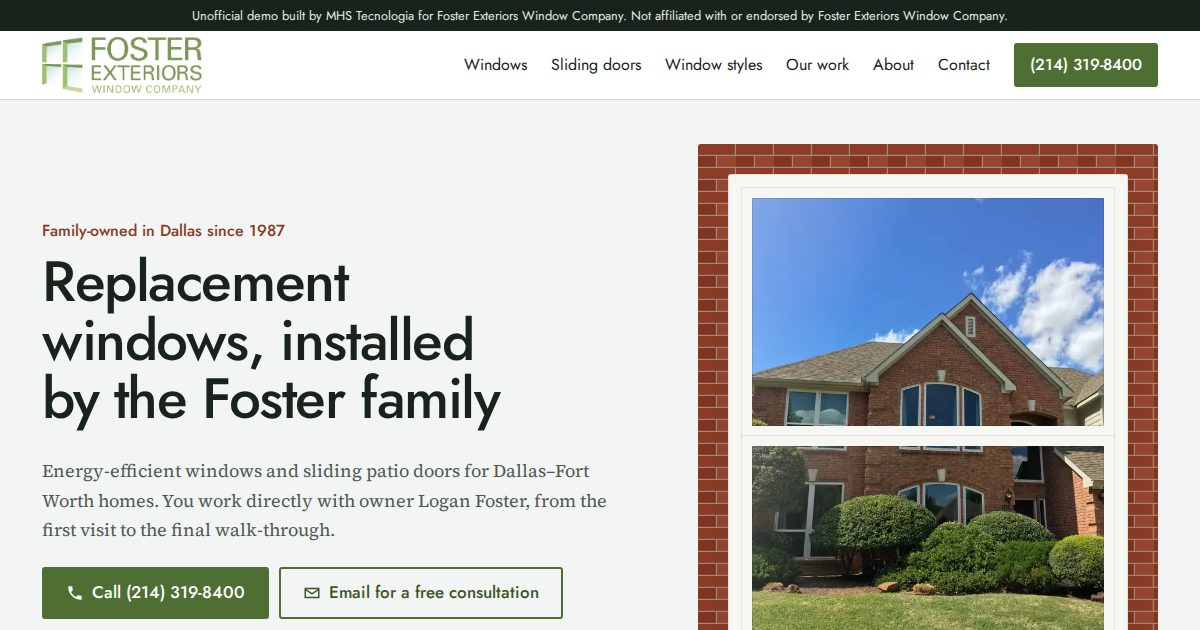
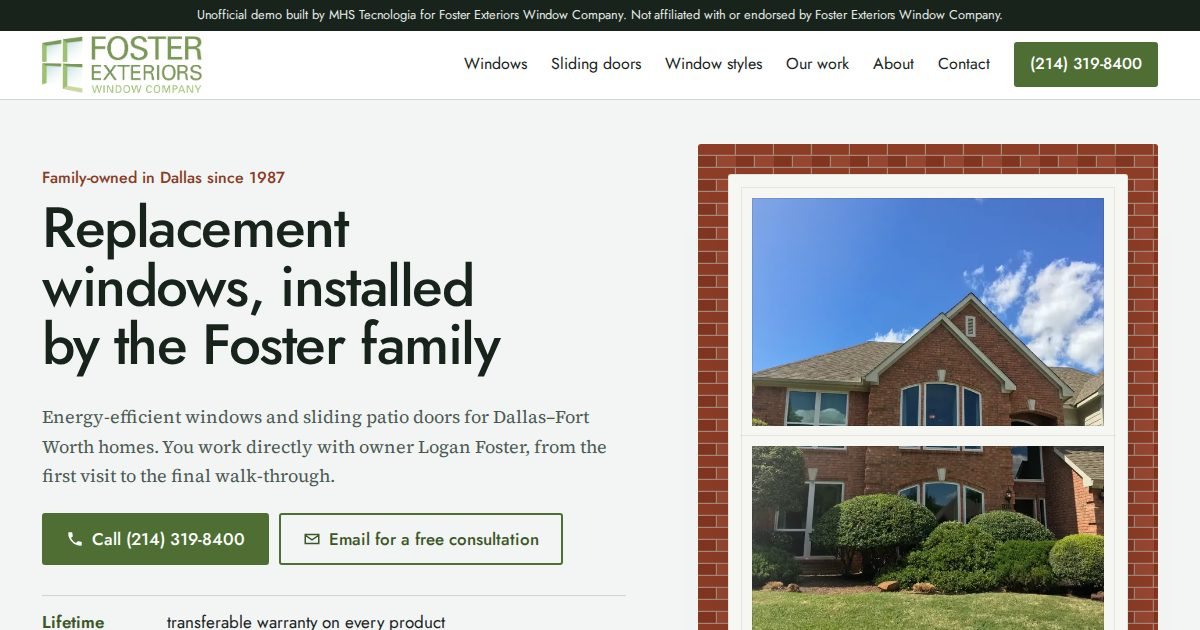
Previews: 88 ativos

diff --git a/foster-exteriors-dallas-tx/windows.html b/foster-exteriors-dallas-tx/windows.html
@@ -37,7 +37,7 @@ p{margin:0 0 1em;max-width:66ch}
 .skip:focus{left:8px;top:8px}
 
 /* demo notice */
-.demo{background:var(--ink);color:#E6ECE8;font:400 .74rem/1.35 var(--sans);text-align:center;padding:6px var(--gut)}
+.demo{background:var(--ink);color:#E6ECE8;font:400 .66rem/1.3 var(--sans);letter-spacing:-.005em;text-align:center;padding:4px 8px}
 @media (min-width:900px){.demo{font-size:.8rem;padding:7px var(--gut)}}
 
 /* header */
@@ -292,7 +292,7 @@ details.feat li{margin:3px 0;break-inside:avoid}
 
 <section class="phead"><div class="wrap">
   <h1>Replacement windows</h1>
-  <p>Vinyl replacement windows from NT, Burris and Alside. Every one meets or exceeds ENERGY STAR® criteria and is backed by a lifetime transferable warranty.</p>
+  <p>Vinyl replacement windows from NT, Burris and Alside that meet the ENERGY STAR® criteria, each backed by a lifetime transferable warranty. The aluminum NT Twinsulator is offered too.</p>
   <div class="btns">
   <a class="btn" href="tel:+12143198400"><svg viewBox="0 0 24 24" aria-hidden="true"><path fill="currentColor" d="M6.6 10.8a15.1 15.1 0 0 0 6.6 6.6l2.2-2.2c.3-.3.7-.4 1-.2 1.1.4 2.3.6 3.6.6.6 0 1 .4 1 1V20c0 .6-.4 1-1 1A17 17 0 0 1 3 4c0-.6.4-1 1-1h3.5c.6 0 1 .4 1 1 0 1.3.2 2.5.6 3.6.1.3 0 .7-.2 1z"/></svg>Call (214) 319-8400</a>
   <a class="btn ghost" href="mailto:info@fosterexteriors.com?subject=Question%20about%20replacement%20windows"><svg viewBox="0 0 24 24" aria-hidden="true"><path fill="none" stroke="currentColor" stroke-width="2" d="M3 6h18v12H3zM3 7l9 6 9-6"/></svg>Email a question</a>
@@ -322,7 +322,7 @@ details.feat li{margin:3px 0;break-inside:avoid}
   <dl class="spec"><div><dt>Styles</dt><dd>Single hung, double hung, double sliding, geometric, casement, slimline and picture frame</dd></div><div><dt>Frame colors</dt><dd><div class="swatches"><span><span class="chip" style="background:#F6F6F2"></span>White</span><span><span class="chip" style="background:#E8DEC8"></span>Almond</span><span><span class="chip" style="background:#C9B997"></span>Sandstone</span><span><span class="chip" style="background:#262A2E"></span>Midnight</span></div><br><span style="color:var(--muted);font-size:.95rem">15 custom color options, including color match submissions</span></dd></div><div><dt>Glass</dt><dd>Double pane, double strength Cardinal 366 or 452+ Low-E glass with argon gas, in a 3/4 inch insulated glass unit</dd></div><div><dt>Grids</dt><dd>Colonial, prairie or craftsman, internal or external</dd></div></dl>
 </article><article class="line" id="nt-twinsulator">
   <div><p class="maker">NT</p><h2>NT Twinsulator Series</h2><p class="desc">Extreme strength, durability and state of the art thermal performance. Designed for use in any weather condition, and engineered for a lifetime of worry-free operation, for any type of home or light commercial project.</p></div>
-  <dl class="spec"><div><dt>Styles</dt><dd>Double hung, single hung, slider, picture and casement</dd></div></dl>
+  <dl class="spec"><div><dt>Styles</dt><dd>Double hung, single hung, slider, picture and casement</dd></div><div><dt>Best for</dt><dd>Strength and durability. Their site notes it does not meet ENERGY STAR® requirements for this region</dd></div></dl>
 </article><article class="line" id="burris-ac">
   <div><p class="maker">Burris</p><h2>Burris TectView AC</h2><p class="desc">Fusion-welded vinyl for strength and rigidity, with industry standard features. If you want an energy-efficient window without paying for the added features of the premium products, this is the most cost-efficient route. It has the narrowest frame profile they offer and is one of their most popular windows.</p><details class="feat"><summary>Features (4)</summary><ul><li>Caldwell balance system</li><li>Alloy warm-edged spacer</li><li>Sloped sill with weep holes</li><li>Composite locking mechanism</li></ul></details></div>
   <dl class="spec"><div><dt>Frame colors</dt><dd><div class="swatches"><span><span class="chip" style="background:#F6F6F2"></span>White</span><span><span class="chip" style="background:#D6C3A1"></span>Tan</span><span><span class="chip" style="background:#B8A68A"></span>Clay</span></div><br><span style="color:var(--muted);font-size:.95rem">Bronze exterior custom color option</span></dd></div></dl>
@@ -392,7 +392,7 @@ details.feat li{margin:3px 0;break-inside:avoid}
       if(w){w.style.setProperty('--frame',b.dataset.c);w.setAttribute('data-frame',b.dataset.k)}
     });
   });
-  var bar=document.querySelector('.callbar'),mark=document.querySelector('[data-callbar-after]');
+  var bar=document.querySelector('.callbar'),mark=document.querySelector('.hero .btns, .phead .btns')||document.querySelector('[data-callbar-after]');
   if(bar&&mark&&'IntersectionObserver' in window){
     new IntersectionObserver(function(e){
       var past=!e[0].isIntersecting&&e[0].boundingClientRect.top<0;

diff --git a/foster-exteriors-dallas-tx/index.html b/foster-exteriors-dallas-tx/index.html
@@ -39,7 +39,7 @@ p{margin:0 0 1em;max-width:66ch}
 .skip:focus{left:8px;top:8px}
 
 /* demo notice */
-.demo{background:var(--ink);color:#E6ECE8;font:400 .74rem/1.35 var(--sans);text-align:center;padding:6px var(--gut)}
+.demo{background:var(--ink);color:#E6ECE8;font:400 .66rem/1.3 var(--sans);letter-spacing:-.005em;text-align:center;padding:4px 8px}
 @media (min-width:900px){.demo{font-size:.8rem;padding:7px var(--gut)}}
 
 /* header */
@@ -312,6 +312,8 @@ details.feat li{margin:3px 0;break-inside:avoid}
       <li><b>Lifetime</b><span>transferable warranty on every product</span></li>
       <li><b>5 years</b><span>labor warranty on every installation</span></li>
       <li><b>20+ years</b><span>with the same lead installers</span></li>
+      <li><b>BBB</b><span>Accredited, A+ rating</span></li>
+      <li><b>ENERGY STAR®</b><span>Partner</span></li>
     </ul>
   </div>
   <div class="hero-media brick">
@@ -348,7 +350,7 @@ details.feat li{margin:3px 0;break-inside:avoid}
     <p>Three things the Fosters hold to on every job.</p>
   </div>
   <div class="ways">
-    <div class="way"><h3>Quality materials</h3><p>Every window meets or exceeds ENERGY STAR® criteria and is eligible for energy-efficiency tax credits when available. Each product carries a lifetime transferable warranty.</p></div>
+    <div class="way"><h3>Quality materials</h3><p>Their vinyl windows meet the ENERGY STAR® criteria for an energy-efficient window. Each product carries a lifetime transferable warranty.</p></div>
     <div class="way"><h3>Quality workmanship</h3><p>The lead installers have worked with the company for over 20 years. Installation is backed by a 5-year labor warranty, and the team is licensed and insured.</p></div>
     <div class="way"><h3>No run-around</h3><p>If a window they installed has an issue, you call them, not the manufacturer. They handle warranty claims and service from start to finish.</p></div>
   </div>
@@ -457,7 +459,7 @@ details.feat li{margin:3px 0;break-inside:avoid}
       if(w){w.style.setProperty('--frame',b.dataset.c);w.setAttribute('data-frame',b.dataset.k)}
     });
   });
-  var bar=document.querySelector('.callbar'),mark=document.querySelector('[data-callbar-after]');
+  var bar=document.querySelector('.callbar'),mark=document.querySelector('.hero .btns, .phead .btns')||document.querySelector('[data-callbar-after]');
   if(bar&&mark&&'IntersectionObserver' in window){
     new IntersectionObserver(function(e){
       var past=!e[0].isIntersecting&&e[0].boundingClientRect.top<0;

diff --git a/foster-exteriors-dallas-tx/about.html b/foster-exteriors-dallas-tx/about.html
@@ -37,7 +37,7 @@ p{margin:0 0 1em;max-width:66ch}
 .skip:focus{left:8px;top:8px}
 
 /* demo notice */
-.demo{background:var(--ink);color:#E6ECE8;font:400 .74rem/1.35 var(--sans);text-align:center;padding:6px var(--gut)}
+.demo{background:var(--ink);color:#E6ECE8;font:400 .66rem/1.3 var(--sans);letter-spacing:-.005em;text-align:center;padding:4px 8px}
 @media (min-width:900px){.demo{font-size:.8rem;padding:7px var(--gut)}}
 
 /* header */
@@ -315,7 +315,7 @@ details.feat li{margin:3px 0;break-inside:avoid}
 </div>
   </div>
   <div class="ways" style="grid-template-columns:1fr;gap:26px">
-    <div class="way"><h3>Quality materials</h3><p>Every product is backed by a lifetime transferable warranty and meets the ENERGY STAR criteria for an energy-efficient window.</p></div>
+    <div class="way"><h3>Quality materials</h3><p>Every product is backed by a lifetime transferable warranty, and their vinyl windows meet the ENERGY STAR® criteria for an energy-efficient window.</p></div>
     <div class="way"><h3>Quality workmanship</h3><p>Professional, polite and trustworthy installers, licensed and insured, with a 5-year labor warranty on their work.</p></div>
     <div class="way"><h3>Customer service</h3><p>No run-around: warranty claims and service go through the company, not the manufacturer or any other third party.</p></div>
   </div>
@@ -375,7 +375,7 @@ details.feat li{margin:3px 0;break-inside:avoid}
       if(w){w.style.setProperty('--frame',b.dataset.c);w.setAttribute('data-frame',b.dataset.k)}
     });
   });
-  var bar=document.querySelector('.callbar'),mark=document.querySelector('[data-callbar-after]');
+  var bar=document.querySelector('.callbar'),mark=document.querySelector('.hero .btns, .phead .btns')||document.querySelector('[data-callbar-after]');
   if(bar&&mark&&'IntersectionObserver' in window){
     new IntersectionObserver(function(e){
       var past=!e[0].isIntersecting&&e[0].boundingClientRect.top<0;

diff --git a/foster-exteriors-dallas-tx/contact.html b/foster-exteriors-dallas-tx/contact.html
@@ -37,7 +37,7 @@ p{margin:0 0 1em;max-width:66ch}
 .skip:focus{left:8px;top:8px}
 
 /* demo notice */
-.demo{background:var(--ink);color:#E6ECE8;font:400 .74rem/1.35 var(--sans);text-align:center;padding:6px var(--gut)}
+.demo{background:var(--ink);color:#E6ECE8;font:400 .66rem/1.3 var(--sans);letter-spacing:-.005em;text-align:center;padding:4px 8px}
 @media (min-width:900px){.demo{font-size:.8rem;padding:7px var(--gut)}}
 
 /* header */
@@ -362,7 +362,7 @@ details.feat li{margin:3px 0;break-inside:avoid}
       if(w){w.style.setProperty('--frame',b.dataset.c);w.setAttribute('data-frame',b.dataset.k)}
     });
   });
-  var bar=document.querySelector('.callbar'),mark=document.querySelector('[data-callbar-after]');
+  var bar=document.querySelector('.callbar'),mark=document.querySelector('.hero .btns, .phead .btns')||document.querySelector('[data-callbar-after]');
   if(bar&&mark&&'IntersectionObserver' in window){
     new IntersectionObserver(function(e){
       var past=!e[0].isIntersecting&&e[0].boundingClientRect.top<0;

diff --git a/foster-exteriors-dallas-tx/doors.html b/foster-exteriors-dallas-tx/doors.html
@@ -37,7 +37,7 @@ p{margin:0 0 1em;max-width:66ch}
 .skip:focus{left:8px;top:8px}
 
 /* demo notice */
-.demo{background:var(--ink);color:#E6ECE8;font:400 .74rem/1.35 var(--sans);text-align:center;padding:6px var(--gut)}
+.demo{background:var(--ink);color:#E6ECE8;font:400 .66rem/1.3 var(--sans);letter-spacing:-.005em;text-align:center;padding:4px 8px}
 @media (min-width:900px){.demo{font-size:.8rem;padding:7px var(--gut)}}
 
 /* header */
@@ -379,7 +379,7 @@ details.feat li{margin:3px 0;break-inside:avoid}
       if(w){w.style.setProperty('--frame',b.dataset.c);w.setAttribute('data-frame',b.dataset.k)}
     });
   });
-  var bar=document.querySelector('.callbar'),mark=document.querySelector('[data-callbar-after]');
+  var bar=document.querySelector('.callbar'),mark=document.querySelector('.hero .btns, .phead .btns')||document.querySelector('[data-callbar-after]');
   if(bar&&mark&&'IntersectionObserver' in window){
     new IntersectionObserver(function(e){
       var past=!e[0].isIntersecting&&e[0].boundingClientRect.top<0;

diff --git a/foster-exteriors-dallas-tx/styles.html b/foster-exteriors-dallas-tx/styles.html
@@ -37,7 +37,7 @@ p{margin:0 0 1em;max-width:66ch}
 .skip:focus{left:8px;top:8px}
 
 /* demo notice */
-.demo{background:var(--ink);color:#E6ECE8;font:400 .74rem/1.35 var(--sans);text-align:center;padding:6px var(--gut)}
+.demo{background:var(--ink);color:#E6ECE8;font:400 .66rem/1.3 var(--sans);letter-spacing:-.005em;text-align:center;padding:4px 8px}
 @media (min-width:900px){.demo{font-size:.8rem;padding:7px var(--gut)}}
 
 /* header */
@@ -355,7 +355,7 @@ details.feat li{margin:3px 0;break-inside:avoid}
       if(w){w.style.setProperty('--frame',b.dataset.c);w.setAttribute('data-frame',b.dataset.k)}
     });
   });
-  var bar=document.querySelector('.callbar'),mark=document.querySelector('[data-callbar-after]');
+  var bar=document.querySelector('.callbar'),mark=document.querySelector('.hero .btns, .phead .btns')||document.querySelector('[data-callbar-after]');
   if(bar&&mark&&'IntersectionObserver' in window){
     new IntersectionObserver(function(e){
       var past=!e[0].isIntersecting&&e[0].boundingClientRect.top<0;

diff --git a/foster-exteriors-dallas-tx/work.html b/foster-exteriors-dallas-tx/work.html
@@ -37,7 +37,7 @@ p{margin:0 0 1em;max-width:66ch}
 .skip:focus{left:8px;top:8px}
 
 /* demo notice */
-.demo{background:var(--ink);color:#E6ECE8;font:400 .74rem/1.35 var(--sans);text-align:center;padding:6px var(--gut)}
+.demo{background:var(--ink);color:#E6ECE8;font:400 .66rem/1.3 var(--sans);letter-spacing:-.005em;text-align:center;padding:4px 8px}
 @media (min-width:900px){.demo{font-size:.8rem;padding:7px var(--gut)}}
 
 /* header */
@@ -359,7 +359,7 @@ details.feat li{margin:3px 0;break-inside:avoid}
       if(w){w.style.setProperty('--frame',b.dataset.c);w.setAttribute('data-frame',b.dataset.k)}
     });
   });
-  var bar=document.querySelector('.callbar'),mark=document.querySelector('[data-callbar-after]');
+  var bar=document.querySelector('.callbar'),mark=document.querySelector('.hero .btns, .phead .btns')||document.querySelector('[data-callbar-after]');
   if(bar&&mark&&'IntersectionObserver' in window){
     new IntersectionObserver(function(e){
       var past=!e[0].isIntersecting&&e[0].boundingClientRect.top<0;
